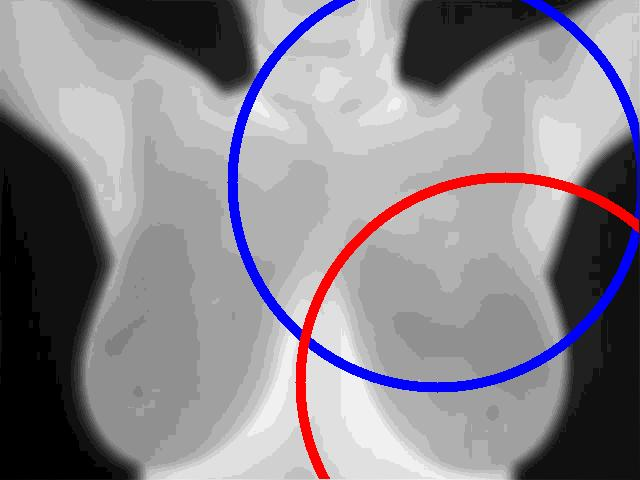
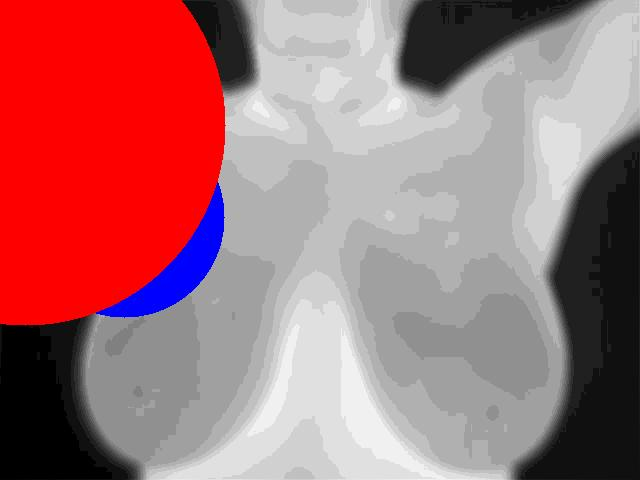
Procurando parte do codigo

Changed region(s): [[0.0, 0.0, 1.0, 1.0]]

diff --git a/src/GATIS/Individual.java b/src/GATIS/Individual.java
@@ -15,8 +15,8 @@ public class Individual implements Comparable<Object>{
 	Circle c1;
 	Circle c2;
 	
-	Circle c3;
-	Circle c4;
+	//Circle c3;
+	//Circle c4;
 	
 	double score;
 	
@@ -39,7 +39,7 @@ public class Individual implements Comparable<Object>{
 		//System.out.println("Raio 1 : "+rr);
 		
 		c1 = new Circle(x,y,rr);
-		c3 = new Circle(x,y,rr+10);
+		//c3 = new Circle(x,y,rr+10);
 		
 		x=(int)(r.nextFloat()*img.getWidth());
 		y=(int)(r.nextFloat()*img.getHeight());
@@ -47,7 +47,7 @@ public class Individual implements Comparable<Object>{
 		
 		//System.out.println("Raio 2 : "+rr);
 		c2 = new Circle(x,y,rr);
-		c4 = new Circle(x,y,rr+10);
+		//c4 = new Circle(x,y,rr+10);
 		//System.out.print("raio no c : "+c2.getRadius());
 		fitness(img);
 
@@ -55,9 +55,9 @@ public class Individual implements Comparable<Object>{
 	
 	Individual(Circle l , Circle r, Image img){ // constructor using circles as parameters
 		c1 = l;
-		c3 =new Circle(c1.getX(),c1.getY(),c1.getRadius()+10);
+		//c3 =new Circle(c1.getX(),c1.getY(),c1.getRadius()+10);
 		c2 = r;
-		c4 =new Circle(c2.getX(),c2.getY(),c2.getRadius()+10);
+		//c4 =new Circle(c2.getX(),c2.getY(),c2.getRadius()+10);
 		fitness(img);
 	}
 	
@@ -81,51 +81,41 @@ public class Individual implements Comparable<Object>{
 	
 	void fitness(Image img) {
 		//COLORS: 0 15 30 | 45 60 75 90 105 | 120 135 150 165 180 195	| 210 225 240 255
-		//WEIGHT-C:  -100          50                     100                   -100
-		//WEIGHT-R:
-		int bw = -250;
-		int sw = 50;
-		int hw = 250;
-		int ww = -275;
-		int wt = bw+sw+hw+ww;
-		
-		int bwR =  250;
-		int swR = -20;
-		int hwR = -10;
-		int wwR =  275;
-		int wtR = bwR+swR+hwR+wwR;
-		
-		int interw;		
-		int[] vol = new int[4];
-		int[] volR=new int[4];
-		
-		vol = getPixelVol(img);
-		volR =getPixelVolRings(img);
-		
-		int inter = interceptVol(img);
-		
-		if(inter > 50) 
-			interw = -10;
-		else
-			interw = 10;
+				//WEIGHT-C:  -100          50                     100                   -100
+				//WEIGHT-R:
+				int bw = -250;
+				int sw = 50;
+				int hw = 250;
+				int ww = -275;
+				int wt = bw+sw+hw+ww;
+				
+				int bwR =  250;
+				int swR = -20;
+				int hwR = -10;
+				int wwR =  275;
+				int wtR = bwR+swR+hwR+wwR;
+				
+				int interw;		
+				int[] vol = new int[4];
+				
+				vol = getPixelVol(img);
+				
+				int inter = interceptVol(img);
+				
+				if(inter > 50) 
+					interw = -50;
+				else
+					interw = 10;
 
-		int b = vol[0]; 
-		int s = vol[1];
-		int h = vol[2];
-		int w = vol[3];
-		
-		int bR = volR[0]; 
-		int sR = volR[1];
-		int hR = volR[2];
-		int wR = volR[3];
-		
-		
-		int totalC = (bw*b+sw*s+hw*h+ww*w+interw*inter);
-		int totalR = (bwR*bR+swR*sR+hwR*hR+wwR*wR);
-		
-		score = (totalC)+totalR/Math.abs(wt+wtR+interw);	
-		
-		
+				int b = vol[0]; 
+				int s = vol[1];
+				int h = vol[2];
+				int w = vol[3];
+							
+				
+				int totalC = (bw*b+sw*s+hw*h+ww*w+interw*inter);
+				
+				score = (totalC)/Math.abs(wt+interw);	
 		
 	}
 	
@@ -183,7 +173,7 @@ public class Individual implements Comparable<Object>{
 		return sum;
 	}
 	
-	int[] getPixelVolRings(Image img) {
+	/*int[] getPixelVolRings(Image img) {
 		
 		int[] sum= new int[4];
 		double pix;
@@ -206,7 +196,7 @@ public class Individual implements Comparable<Object>{
 		}
 		
 		return sum;
-	}
+	}*/
   
 	Boolean contains(int x, int y) {
 		
@@ -233,7 +223,7 @@ public class Individual implements Comparable<Object>{
 			return false;
 	}
 	
-	Boolean containsL3(int x, int y) {
+	/*Boolean containsL3(int x, int y) {
 		
 		int rad3 = c3.getRadius()*c3.getRadius();									   // calculate the r^2 from the circle (limit of the circle)
 		int cir3 = (x - c3.getX())*(x - c3.getX()) + (y - c3.getY())*(y - c3.getY());  // calculate of the center to the coordinates 		
@@ -250,7 +240,7 @@ public class Individual implements Comparable<Object>{
 				return true;
 		else
 				return false;
-	}
+	}*/
 	
 	Boolean containsR2(int x, int y) {
 		
@@ -263,7 +253,7 @@ public class Individual implements Comparable<Object>{
 		else
 			return false;
 	}
-	Boolean containsR4(int x, int y) {
+	/*Boolean containsR4(int x, int y) {
 		
 		int rad4 = c4.getRadius()*c4.getRadius();									   // calculate the r^2 from the circle (limit of the circle)
 		int cir4 = (x - c4.getX())*(x - c4.getX()) + (y - c4.getY())*(y - c4.getY());  // calculate of the center to the coordinates 		
@@ -275,12 +265,12 @@ public class Individual implements Comparable<Object>{
 	}
 		
 	
-	Boolean RigthRing(int x, int y){
+	 Boolean RigthRing(int x, int y){
 		if((!containsR2(x,y)) && containsR4(x,y))
 				return true;
 		else
 				return false;
-	}
+	}*/
 	
 	void draw(Image img ) {
 		
@@ -289,9 +279,9 @@ public class Individual implements Comparable<Object>{
 		
 		for(int i = 0 ; i < h-1; i++) {
 			for(int j = 0 ; j < w-1 ; j++) {
-				if(this.RigthRing(j,i))
+				if(this.containsR2(j,i))
 					img.setPixel(j,i,BLUE);
-				if(this.LeftRing(j,i))
+				if(this.containsL1(j,i))
 					img.setPixel(j,i,RED);
 				
 			}

diff --git a/src/GATIS/GA.java b/src/GATIS/GA.java
@@ -10,8 +10,8 @@ import image.Image;
 public class GA {
 	//CONSTANTS
 	final int decimalArraySize = 10;
-	final static int POP = 40;
-	final int GEN = 40;
+	final static int POP = 50;
+	final int GEN = 50;
 	final float mR = 0.02f;
 	final float cR = 0.7f;
 	//ATTRIBUTES
@@ -271,13 +271,16 @@ public class GA {
 			
 			int t=0;	
 			elite = pop.get(0);
-			while(t <= (POP/2)) {
+			while(t <= (POP/2-1)) {
 
 				
 				m = r.nextFloat();
 				c = r.nextFloat();
 				a1 = tournament();
 				a2 = tournament();
+				
+				children[0] = a1;
+				children[1] = a2;
 				
 				if(c < cR) {
 					children = crossover(a1,a2,img);
